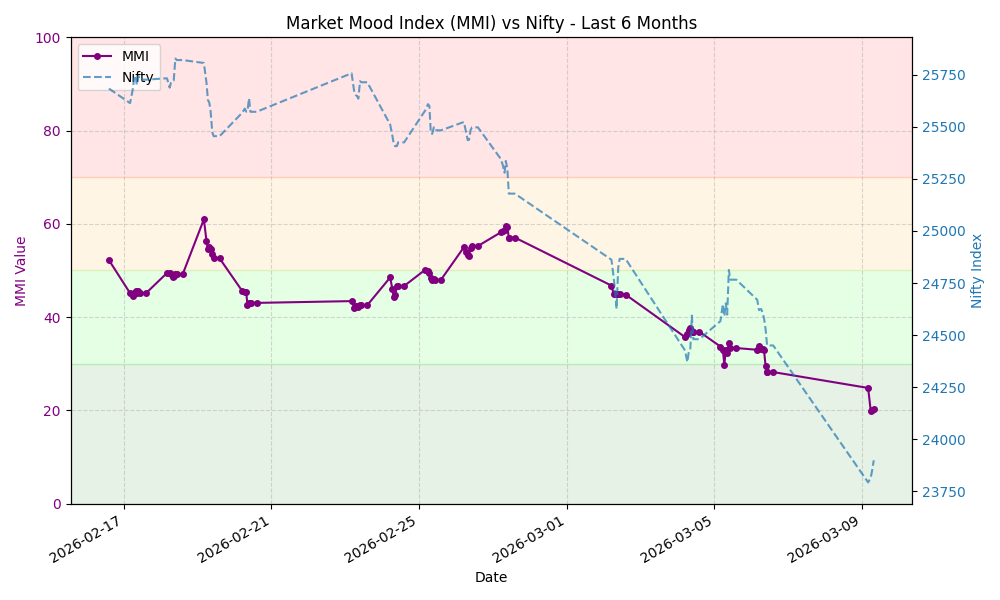
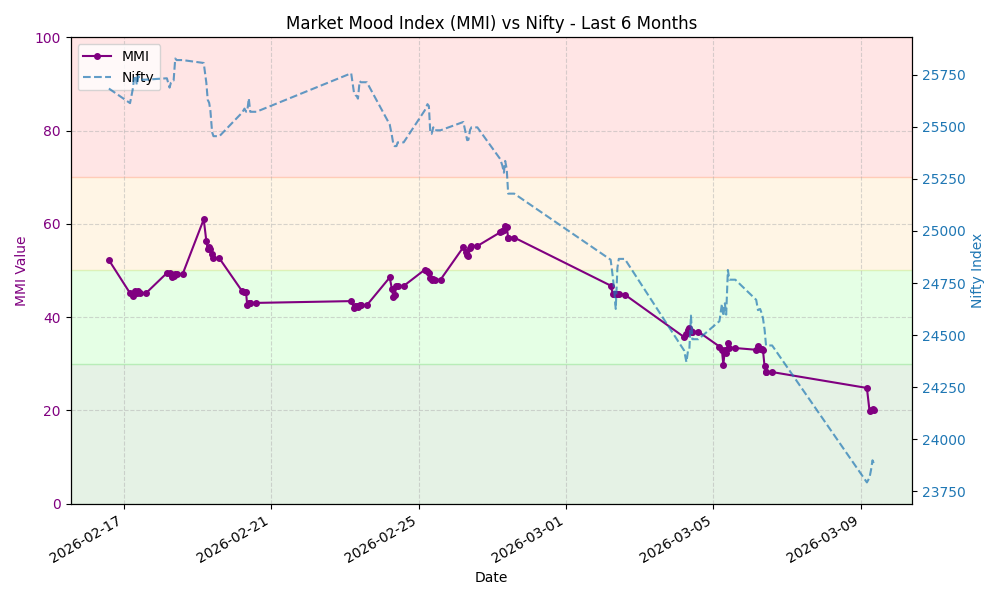
Update MMI data and chart

diff --git a/README.md b/README.md
@@ -7,8 +7,8 @@ This repository automatically fetches the MMI value, stores the history, and gen
 
 ## Latest MMI Value
 
-**20.32** - **Extreme Fear**
-<small>Last Updated: 2026-03-09 07:42 UTC</small>
+**20.00** - **Extreme Fear**
+<small>Last Updated: 2026-03-09 08:30 UTC</small>
 
 ## MMI Trend (Last 30 Days)
 
